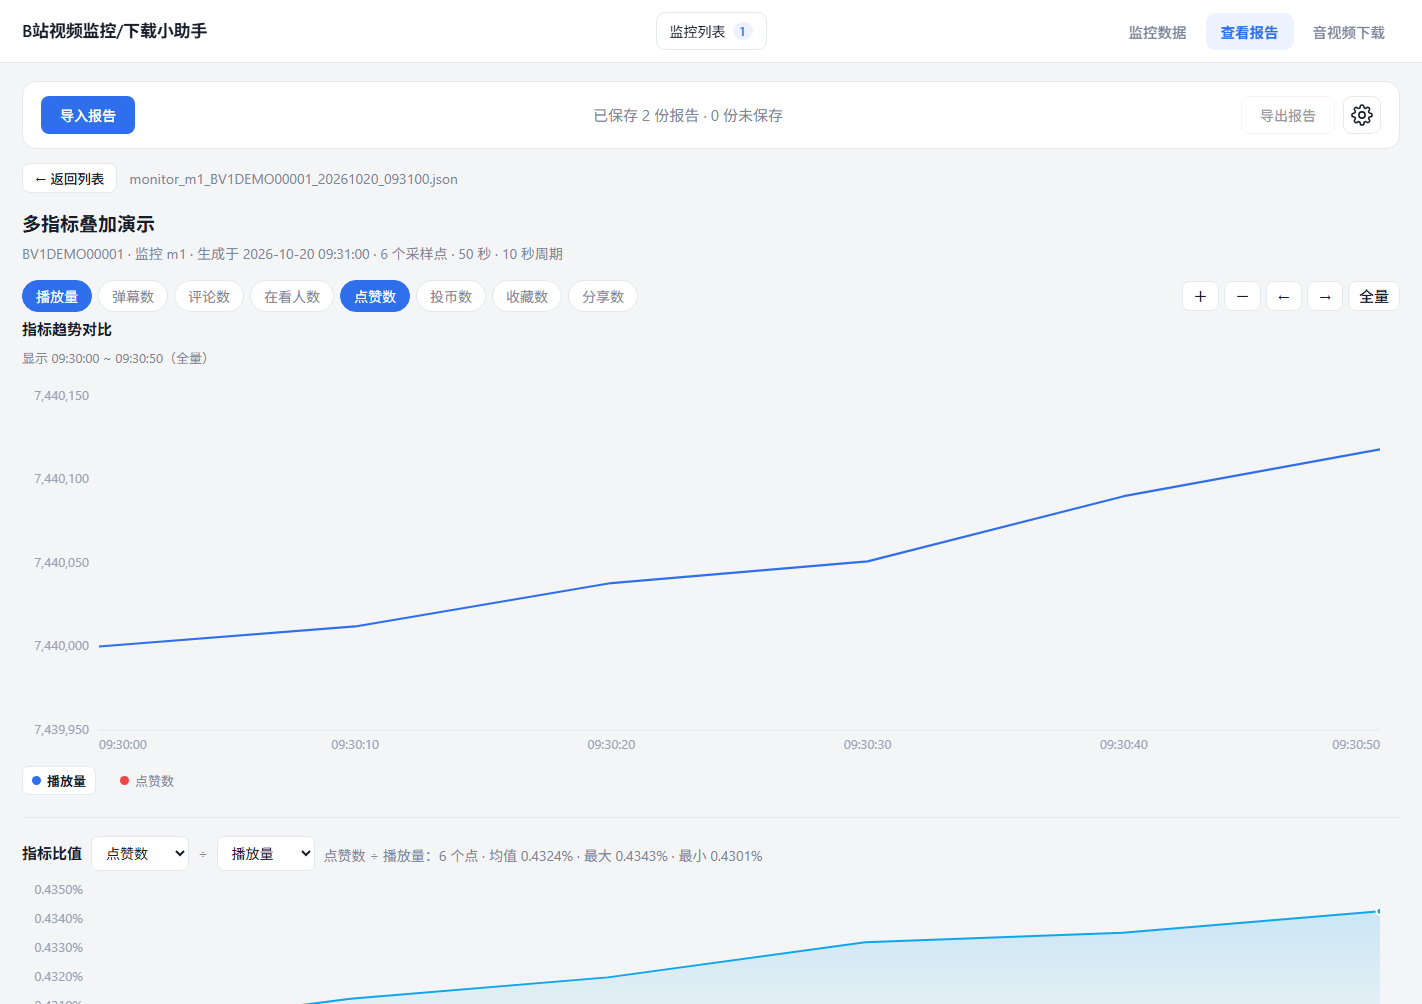
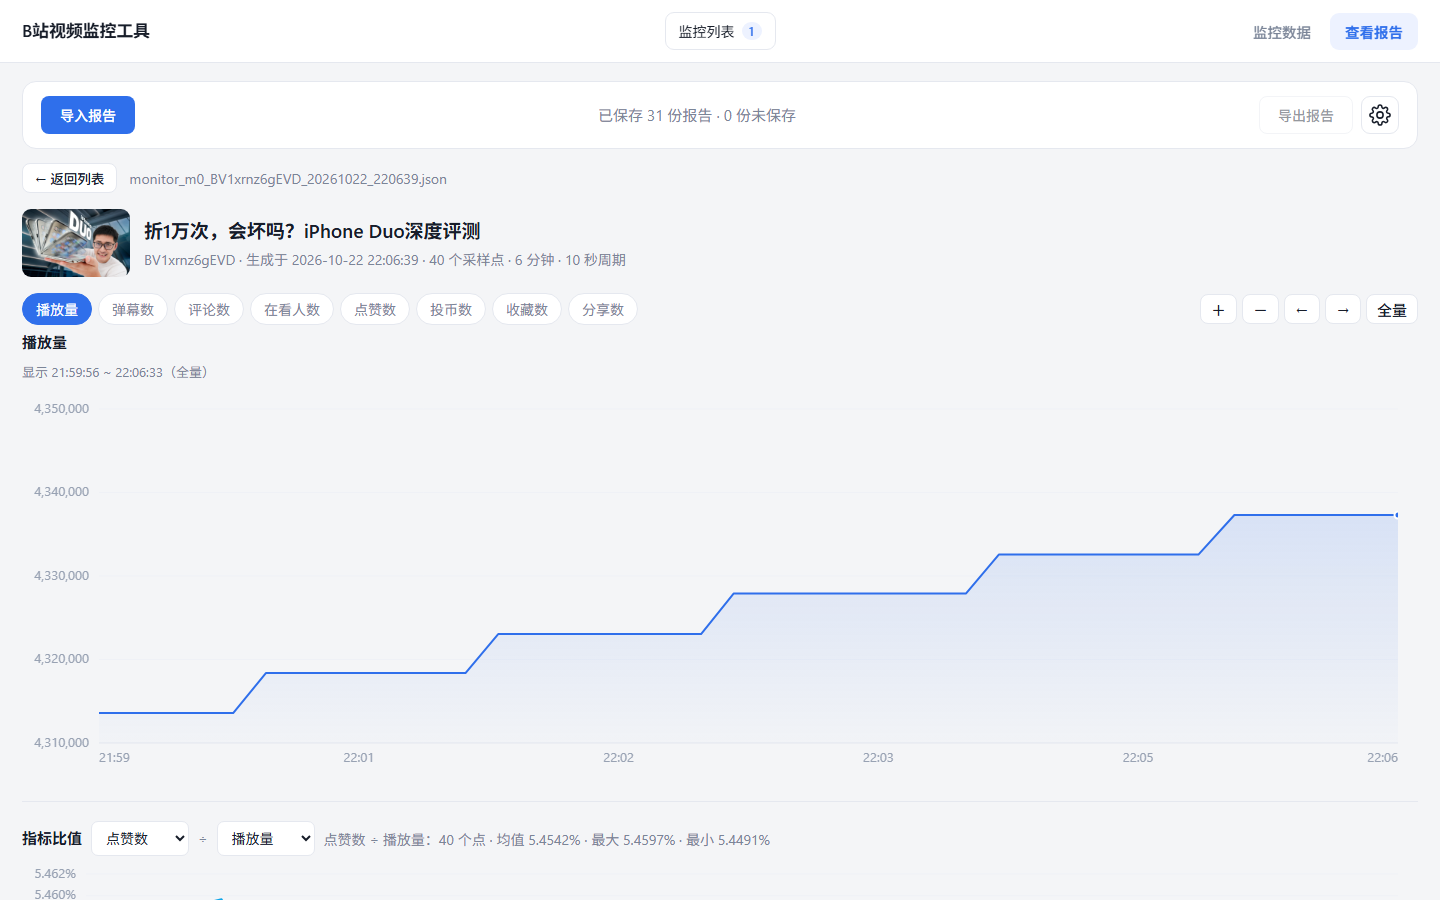
补全 .gitignore，重写 README
- .gitignore 覆盖 Python/Node 缓存、虚拟环境、覆盖率、IDE、系统文件、日志与私密文件
- README 改为仓库级说明：用途、功能、快速开始、使用流程、指标口径、报告格式、常见问题
- preview.png 更新为当前版本界面

diff --git a/README.md b/README.md
@@ -1,59 +1,219 @@
 # B站视频监控工具
 
-按固定周期采样 B 站视频的公开数据，实时看趋势，停止时产出 JSON 报告。
+按固定周期采样 B 站视频的公开数据，把零散的数字连成一条可回看的曲线，停止时归档为 JSON 报告。
 
-## 运行
+![报告详情](preview.png)
 
-Windows 下双击 `start.bat`，或：
+## 它解决什么问题
 
-```
-python app.py
-```
+B 站视频页只显示当前数字，看不到这一小时涨了多少、哪个指标先动。
 
-| 参数 | 默认 | 说明 |
-|---|---|---|
-| `--port` | 8765 | 被占用时自动向后顺延 |
-| `--no-browser` | 关 | 不自动打开浏览器 |
+这个工具按周期记录播放量、弹幕、点赞等 8 项指标，画出趋势曲线并支持任意两项做比值，
+用来判断内容是否在起量、增长来自哪一项、爆发点出现在什么时候。
 
-要求 Python 3.12+，无第三方依赖。
+典型用法：观察自己投稿的早期数据、跟踪同题材视频的传播节奏、回看某个视频的爆发过程。
 
 ## 功能
 
-- **多监控**：最多同时跟踪 5 个视频，各自独立采样，切换只切换查看
-- **指标**：播放量、弹幕、评论、点赞、投币、收藏、分享、同时在看
-- **报告**：停止监控即生成，可下载、导入、导出、删除，内容重复的自动跳过
-- **设置**：自动保存目录、报告自动导入目录、整点采样
+- **多监控**：同时跟踪最多 5 个视频，各自独立采样，切换只切换查看，采集在后台继续
+- **8 项指标**：播放量、弹幕、评论、同时在看、点赞、投币、收藏、分享
+- **实时趋势**：指标卡片 + 主图，时间窗口 5 分钟 / 30 分钟 / 2 小时 / 12 小时 / 全部
+- **采样周期可热改**：5–3600 秒，改完立即按新节奏排下一次，不影响已采数据
+- **整点采样**：可选把首次采样对齐整点，便于多视频横向对比
+- **报告**：停止即生成 JSON，支持下载、导入、导出、删除，内容相同的自动去重
+- **报告详情**：多指标叠加、滚轮缩放、拖动平移、悬停读数、任意两项指标比值
+- **零依赖**：后端只用 Python 标准库，前端自绘 Canvas，无构建步骤、无 CDN
+
+## 快速开始
+
+### 环境
+
+| 项目 | 要求 |
+|---|---|
+| Python | 3.12 或以上 |
+| 系统 | Windows（`start.bat` 依赖 CMD）；其他平台用 `python app.py` 启动 |
+| 网络 | 能访问 `api.bilibili.com` |
+| 账号 | 不需要登录，只读取公开数据 |
+
+### 启动
+
+Windows 双击 `start.bat`，或命令行执行：
+
+```bash
+python app.py
+```
+
+浏览器会自动打开 `http://127.0.0.1:8765/`。可用参数：
+
+| 参数 | 默认 | 说明 |
+|---|---|---|
+| `--port` | `8765` | 端口被占用时自动向后顺延，最多尝试 20 个 |
+| `--no-browser` | 关 | 不自动打开浏览器 |
+
+## 使用
+
+### 1. 开始监控
+
+在「监控数据」页输入视频链接、BV 号、av 号或 `b23.tv` 短链，设定采样周期（默认 30 秒），点「开始监控」。
+
+第一个采样点默认立即产生，之后按周期继续；开启「整点采样」时首个采样点改为对齐时刻。顶部「监控列表」可新建多个监控，彼此独立，采集都在后台进行。
+
+### 2. 观察数据
+
+主图按所选时间窗口绘制趋势，右侧显示当前指标值与增量。采样周期随时可改，顶部的「整点采样」会把首次采样对齐到整点：
+
+| 采样周期 | 对齐粒度 |
+|---|---|
+| ≥ 5 分钟 | 半小时整点 |
+| < 5 分钟 | 整分钟 |
+
+### 3. 停止与报告
+
+点「停止」结束采样并生成报告。直接关闭服务窗口时，**所有**运行中的监控都会各自结算一份报告，不会丢数据。
+
+### 4. 管理报告
+
+「查看报告」页集中管理所有报告：
+
+| 操作 | 说明 |
+|---|---|
+| 导入 | 选文件或目录（目录不递归），复制进 `reports/` |
+| 导出 | 选目录直接写入磁盘，或交给浏览器逐个下载 |
+| 删除 | 从 `reports/` 移除 |
+| 查看 | 进入详情：多指标叠加、缩放平移、悬停读数、比值分析 |
+
+内容相同的报告只保留一份；已经落盘进 `reports/` 的报告，不会在列表中重复显示为「未保存」。
+
+## 指标
+
+| 键 | 名称 | 说明 |
+|---|---|---|
+| `view` | 播放量 | |
+| `danmaku` | 弹幕数 | |
+| `reply` | 评论数 | |
+| `online` | 同时在看 | 部分视频不开放该数据，取不到时为空 |
+| `like` | 点赞数 | |
+| `coin` | 投币数 | |
+| `favorite` | 收藏数 | |
+| `share` | 分享数 | |
+
+所有数值均为采集时刻 B 站接口返回的原值，工具不做换算或估算。
+
+## 报告格式
+
+```json
+{
+  "schema_version": "1.0",
+  "report_type": "bilibili_video_monitor",
+  "generated_at": "2026-10-22T22:06:39+08:00",
+  "video": {
+    "bvid": "BV1xrnz6gEVD", "aid": 113000000000000,
+    "title": "…", "owner": "…", "cover": "…",
+    "duration": 480, "pubdate": 1729000000, "cid": 260000000, "url": "…"
+  },
+  "monitor": {
+    "id": "m0",
+    "started_at": "2026-10-22T21:59:56+08:00",
+    "stopped_at": "2026-10-22T22:06:39+08:00",
+    "duration_seconds": 402.6,
+    "interval_seconds": 10,
+    "sample_count": 40,
+    "success_count": 40,
+    "failure_count": 0,
+    "last_error": null
+  },
+  "metrics": {
+    "view": {
+      "label": "播放量",
+      "first": 4313586, "last": 4337311, "delta": 23725,
+      "min": 4313586, "max": 4337311, "average": 4325826.05,
+      "peak_gain": 4862, "peak_gain_at": "2026-10-22T22:03:10+08:00",
+      "average_per_minute": 3584.225, "sample_count": 40
+    }
+  },
+  "samples": [
+    { "time": "2026-10-22T21:59:56+08:00", "elapsed_seconds": 0.0,
+      "view": 4313586, "danmaku": 55648, "reply": 31043, "online": null,
+      "like": 235388, "coin": 123391, "favorite": 47351, "share": 28822 }
+  ]
+}
+```
+
+`average_per_minute` 为整段监控的分钟均值；`peak_gain` 是相邻两次采样的最大增量及其发生时间。
+
+## 项目结构
+
+```
+app.py                启动入口，只做装配，不含业务逻辑
+bilimon/
+  collector.py        接口请求、限流冷却、指标解析
+  session.py          单次监控的状态机与采样线程
+  schedule.py         整点对齐的时刻计算
+  report.py           会话 → 报告结构
+  reports.py          报告仓库的读写、导入导出、去重
+  control.py          多监控编排
+  settings.py         配置读写
+  server.py           HTTP 服务与静态资源
+  filepicker.py       目录浏览（只读）
+web/
+  index.html  style.css
+  app.js              监控页：轮询、渲染、交互
+  report-page.js      报告页：列表、详情图表、导出
+  chart.js            自绘折线图
+  filepicker.js       统一的文件/目录选择器
+tests/                后端测试
+web/tests/            图表测试
+docs/                 架构说明与图表
+```
 
 ## 测试
 
-```
+```bash
 test.bat
 ```
 
-后端用标准库 `unittest`，前端图表用 `node:test`；未安装 Node 时只跑后端。
+- 后端：Python 标准库 `unittest`，233 项，覆盖采集、会话、报告、配置、HTTP 与安全边界
+- 前端：Node 内置 `node:test`，18 项，覆盖刻度计算、数值格式化、坐标映射
 
-## 目录
+未安装 Node 时只跑后端。也可以分开执行：
 
-| 路径 | 内容 |
-|---|---|
-| `app.py` | 启动入口，只做装配 |
-| `bilimon/` | 后端：采集、会话、报告、配置、HTTP |
-| `web/` | 前端：页面、图表、文件选择器 |
-| `tests/` | 后端测试 |
-| `docs/` | 架构说明与图表 |
+```bash
+python -m unittest discover -s tests -t .
+node --test "web/tests/*.test.js"
+```
 
 ## 运行期文件
 
-| 文件 | 内容 |
-|---|---|
-| `reports/` | 报告仓库，首次写入时自动创建 |
-| `config.json` | 本机设置 |
-| `cooldown.json` | 限流冷却，重启后继续生效 |
+| 路径 | 内容 | 是否入库 |
+|---|---|---|
+| `reports/` | 报告仓库，首次写入时自动创建 | 否 |
+| `config.json` | 本机设置（自动保存目录、导入目录、整点采样） | 否 |
+| `cooldown.json` | 限流冷却状态，重启后继续生效 | 否 |
 
-三者均不纳入版本库。
+## 常见问题
+
+**端口被占用？**
+自动向后顺延最多 20 个端口，实际地址以启动窗口打印的为准。
+
+**页面提示「与本地服务断开」？**
+服务进程已退出，重新运行 `start.bat`。
+
+**接口返回 403？**
+只接受来自本机页面的请求：`Host` 必须是 `127.0.0.1` / `localhost` / `::1`，`Origin` 存在时必须同端口同源。
+
+**提示「B站 正在限制访问」？**
+触发了 B 站风控（HTTP 412），工具会暂停请求 90 秒并给出倒计时。调大采样周期可降低触发概率。
+
+**局域网内其他设备打不开？**
+服务只监听回环地址，不对外暴露，设计如此。
+
+**重启后监控和报告都没了？**
+监控与样本只存在内存中，重启即丢失；报告在停止时才落盘，已落盘的不会丢。
 
 ## 已知边界
 
-- 监控与样本只存在内存，重启即丢失；报告停止时才落盘
-- 接口请求受 B 站限流约束，采样周期下限 5 秒
-- 只接受本机页面的请求，非回环来源返回 403
+- 同一视频可以存在于多个槽位并各自采样，请求量与限流风险随之叠加
+- 限流冷却全局生效，一个视频触发风控会让所有监控一起暂停
+- 采样时刻受线程调度与系统时钟影响，实测与计划时刻偏差 1–2 毫秒
+- 报告时间戳固定为 `+08:00`，跨时区查看时与浏览器本地时间存在偏移
+- 只实现 GET 与 POST，`HEAD` 返回 501
